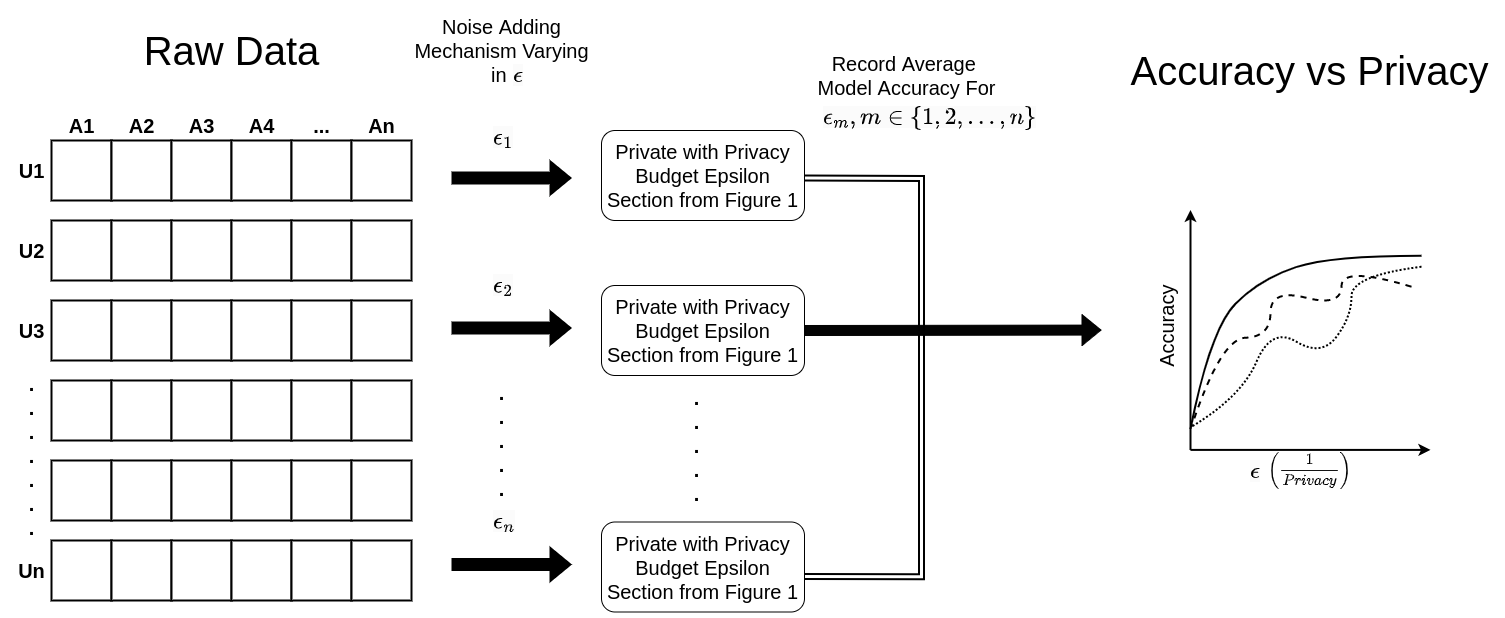
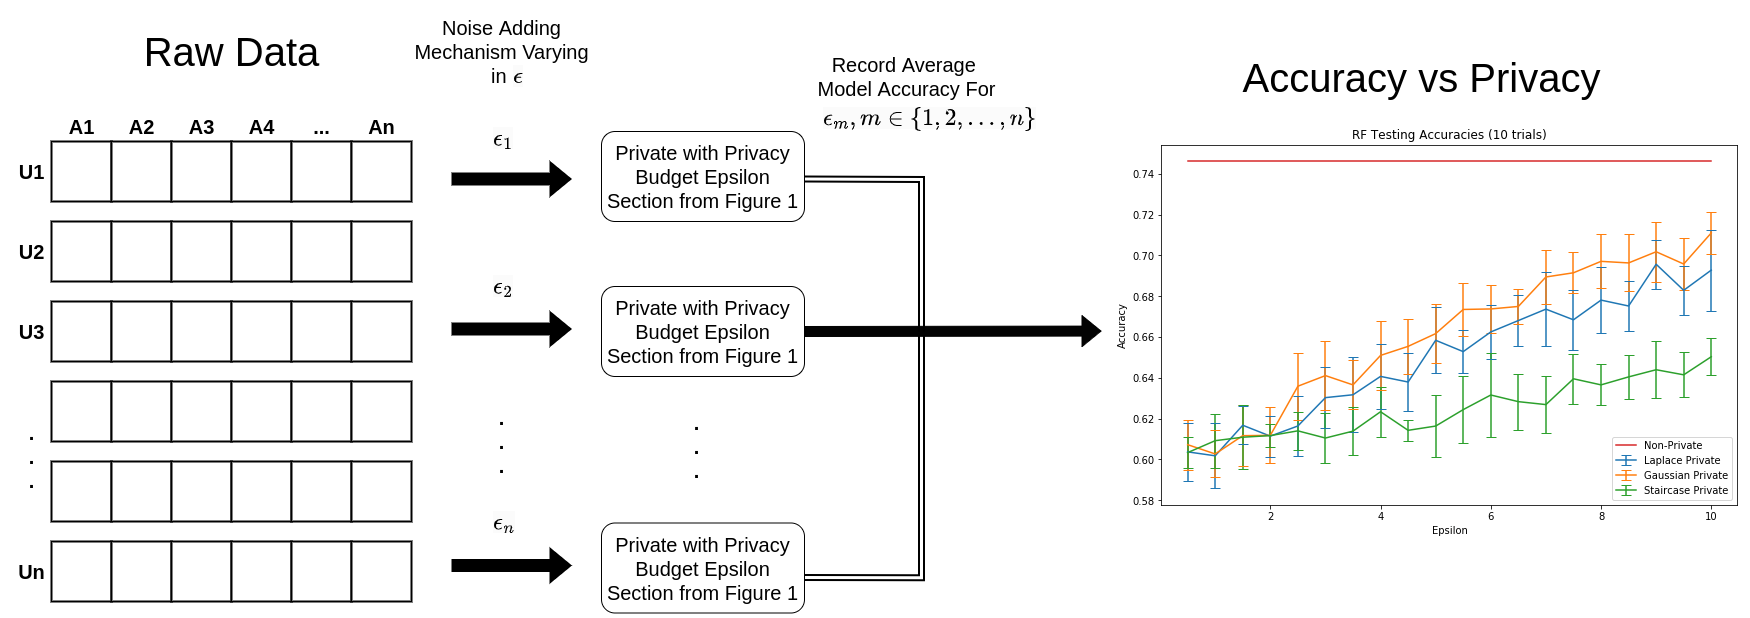
28/4/2023

diff --git a/Models/Generialise_Model_Code.py b/Models/Generialise_Model_Code.py
@@ -2,6 +2,7 @@
 import numpy as np
 import matplotlib.pyplot as plt
 import seaborn as sns
+import pandas as pd
 
 #Model Imports
 from sklearn.model_selection import KFold
@@ -9,10 +10,68 @@ from sklearn.model_selection import KFold
 #Function Imports
 from Data_Functions import *
 
+def plotDataBeforeAndAfterNoise():
+    """
+    This function generates a plot of the dataset before noise is added and
+    after. This is useful for gaining a visual understanding of what adding
+    noise, and thus privacy is doing to the data.
+    
+
+    Returns
+    -------
+    Graphs showing noise before and after noise is added
+
+    """
+    
+    diabetes = loadDiabetesData()
+    # ['Pregnancies', 'Glucose', 'BloodPressure', 'SkinThickness', 'Insulin', 'BMI', 'DiabetesPedigreeFunction', 'Age']
+    diabetes_feature_labels = [x for i,x in enumerate(diabetes.columns) if i!=8]
+        
+    sensitivity = 1
+    epsilon = 1
+    
+    #Standard Deviation for noise
+    scale = sensitivity/epsilon
+    diabetes.boxplot(column=diabetes_feature_labels, grid=False, rot=90, fontsize=10)
+    plt.title("Original Dataset")
+    plt.show()
+    
+    laplacePrivateDataset = addLaplaceNoiseCell(diabetes.loc[:, diabetes.columns != 'Outcome'], 0, scale, diabetes_feature_labels)
+    
+    scaler = MinMaxScaler()
+    scaler.fit(laplacePrivateDataset)
+    scaled = scaler.fit_transform(laplacePrivateDataset)
+    laplacePrivateDataset = pd.DataFrame(scaled, columns=diabetes_feature_labels)
+    
+    laplacePrivateDataset.boxplot(column=diabetes_feature_labels, grid=False, rot=90, fontsize=10)
+    plt.title("Laplace Private Dataset With Epsilon=" + str(epsilon) + " Privacy Budget")
+    plt.show()
+    
+    gaussianPrivateDataset = addGaussianNoiseCell(diabetes.loc[:, diabetes.columns != 'Outcome'], 0, scale, diabetes_feature_labels)
+    
+    scaler.fit(gaussianPrivateDataset)
+    scaled = scaler.fit_transform(gaussianPrivateDataset)
+    gaussianPrivateDataset = pd.DataFrame(scaled, columns=diabetes_feature_labels)
+    
+    gaussianPrivateDataset.boxplot(column=diabetes_feature_labels, grid=False, rot=90, fontsize=10)
+    plt.title("Gaussian Private Dataset With Epsilon=" + str(epsilon) + " Privacy Budget")
+    plt.show()
+    
+    staircasePrivateDataset = addStaircaseNoise(diabetes.loc[:, diabetes.columns != 'Outcome'], 0.5, scale, 0.5, diabetes_feature_labels)
+    scaler.fit(staircasePrivateDataset)
+    scaled = scaler.fit_transform(staircasePrivateDataset)
+    staircasePrivateDataset = pd.DataFrame(scaled, columns=diabetes_feature_labels)
+    
+    staircasePrivateDataset.boxplot(column=diabetes_feature_labels, grid=False, rot=90, fontsize=10)
+    plt.title("Staricase Private Dataset With Epsilon=" + str(epsilon) + " Privacy Budget")
+    plt.show()
+
 def generateAccPrivacyGraphLaplace(model_type, trials, diabetes_features=[]):
     """
-    This function generates accuracy graphs for a model type with a given number of trials (since random noise is added multiple trials
-    are taken to negate the varience). This results are then ploted to show accuracy over a range of different epsilons.
+    This function generates accuracy graphs for a model type with a given number
+    of trials (since random noise is added multiple trials
+    are taken to negate the varience). This results are then ploted to show 
+    accuracy over a range of different epsilons.
 
     Parameters
     ----------
@@ -25,7 +84,7 @@ def generateAccPrivacyGraphLaplace(model_type, trials, diabetes_features=[]):
         
     Returns
     -------
-    Graphs showing accuracy for non-private, laplace, gaussian and staircase noise
+    Graphs showing accuracy for non-private and laplace noise
     
     """
     #Load in the data
@@ -75,8 +134,11 @@ def generateAccPrivacyGraphLaplace(model_type, trials, diabetes_features=[]):
 
 def generateAccPrivacyGraphAll(model_type, trials, diabetes_features=[]):
     """
-    This function generates accuracy graphs for a model type with a given number of trials (since random noise is added multiple trials
-    are taken to negate the varience). This results are then ploted to show accuracy over a range of different epsilons.
+    This function plots the accuracy for all the mechnaism types for a
+    given model type and number of trials. This plot is a line plot that
+    also shows the standard deviation for the different values of epsilon,
+    as the noise is randomly added multiple trials are required to get an
+    accurate measure for the accuracy of the model at a given epsilon.
 
     Parameters
     ----------
@@ -191,12 +253,16 @@ def runModelLaplace(model_type, trials, diabetes, sensitivity=1, epsilon=0.1, di
     
     # Non-private RF Neighbours
     kf = KFold(n_splits=5)
+    scaler = MinMaxScaler()
     
     overallTrainingAcc = []
     overallTestingAcc = []
     
     for i in range(trials):
         laplacePrivateDataset = addLaplaceNoiseCell(diabetes.loc[:, diabetes.columns != 'Outcome'], 0, scale, diabetes_features)
+        scaler.fit(laplacePrivateDataset)
+        scaled = scaler.fit_transform(laplacePrivateDataset)
+        laplacePrivateDataset = pd.DataFrame(scaled, columns=diabetes_feature_labels)
         training_acc = []
         testing_acc = []
         
@@ -229,12 +295,16 @@ def runModelGaussian(model_type, trials, diabetes, sensitivity=1, epsilon=0.1, d
     
     # Non-private RF Neighbours
     kf = KFold(n_splits=5)
+    scaler = MinMaxScaler()
     
     overallTrainingAcc = []
     overallTestingAcc = []
     
     for i in range(trials):
         gaussianPrivateDataset = addGaussianNoiseCell(diabetes.loc[:, diabetes.columns != 'Outcome'], 0, scale, diabetes_features)
+        scaler.fit(gaussianPrivateDataset)
+        scaled = scaler.fit_transform(gaussianPrivateDataset)
+        gaussianPrivateDataset = pd.DataFrame(scaled, columns=diabetes_feature_labels)
         training_acc = []
         testing_acc = []
         
@@ -266,12 +336,16 @@ def runModelStaircase(model_type, trials, diabetes, sensitivity=1, epsilon=0.1, 
     
     # Non-private RF Neighbours
     kf = KFold(n_splits=5)
+    scaler = MinMaxScaler()
     
     overallTrainingAcc = []
     overallTestingAcc = []
     
     for i in range(trials):
-        staircasePrivateDataset = addStaircaseNoise(diabetes.loc[:, diabetes.columns != 'Outcome'], 0, scale, 0.5, diabetes_features)
+        staircasePrivateDataset = addStaircaseNoise(diabetes.loc[:, diabetes.columns != 'Outcome'], 0.5, scale, 0.5, diabetes_features)
+        scaler.fit(staircasePrivateDataset)
+        scaled = scaler.fit_transform(staircasePrivateDataset)
+        staircasePrivateDataset = pd.DataFrame(scaled, columns=diabetes_feature_labels)
         training_acc = []
         testing_acc = []
         
@@ -295,6 +369,9 @@ def runModelAll(model_type, trials, sensitivity=1, epsilon=0.1, diabetes_feature
     """
     This function should run whatever model is put in the model parameter.
     It should also run for the number of trials given.
+    
+    Note: This code is outdated and generateAccPrivacyGraphAll now does much 
+    tha same purpose. I'm keeping this code incase any aspects are useful.
 
     Parameters
     ----------
@@ -454,7 +531,7 @@ def runModelAll(model_type, trials, sensitivity=1, epsilon=0.1, diabetes_feature
     # Private Staircase Logistic Regression Model
     for i in range(trials):
         # Generate a copy of the data set to make private
-        staircasePrivateDataset = addStaircaseNoise(diabetes.loc[:, diabetes.columns != 'Outcome'], 0, scale, 0.5, diabetes_features)
+        staircasePrivateDataset = addStaircaseNoise(diabetes.loc[:, diabetes.columns != 'Outcome'], 0.5, scale, 0.5, diabetes_features)
         training_acc = []
         testing_acc = []
         

diff --git a/Models/Data_Functions.py b/Models/Data_Functions.py
@@ -305,6 +305,8 @@ def addGaussianNoiseRow(dataSet, mu, scale, features):
     in the function call. Additionally, the random noise is added to each row
     so the noise to each feature in that row is the same.
     
+    Note: This doesn't work, it gives very strange results
+    
     Parameters
     ----------
     dataSet : Pandas.Dataframe
@@ -423,8 +425,8 @@ def staircaseRV(epsilon, sensitivity, gamma):
 
     Returns
     -------
-    privateDataSet : Pandas.Dataframe
-        A copy of the dataSet with gaussian random noise added.
+    X : float
+        Sample from staircase distribution
 
     """
     
@@ -439,6 +441,7 @@ def staircaseRV(epsilon, sensitivity, gamma):
     #Second generate G
     b = np.exp(-epsilon)
     probs = [probability_to_occur_at(z, b) for z in range(100)]
+    
     G = geometricRV(b, probs)
     
     #Thrid generate U uniformly distributioned between [0,1]
